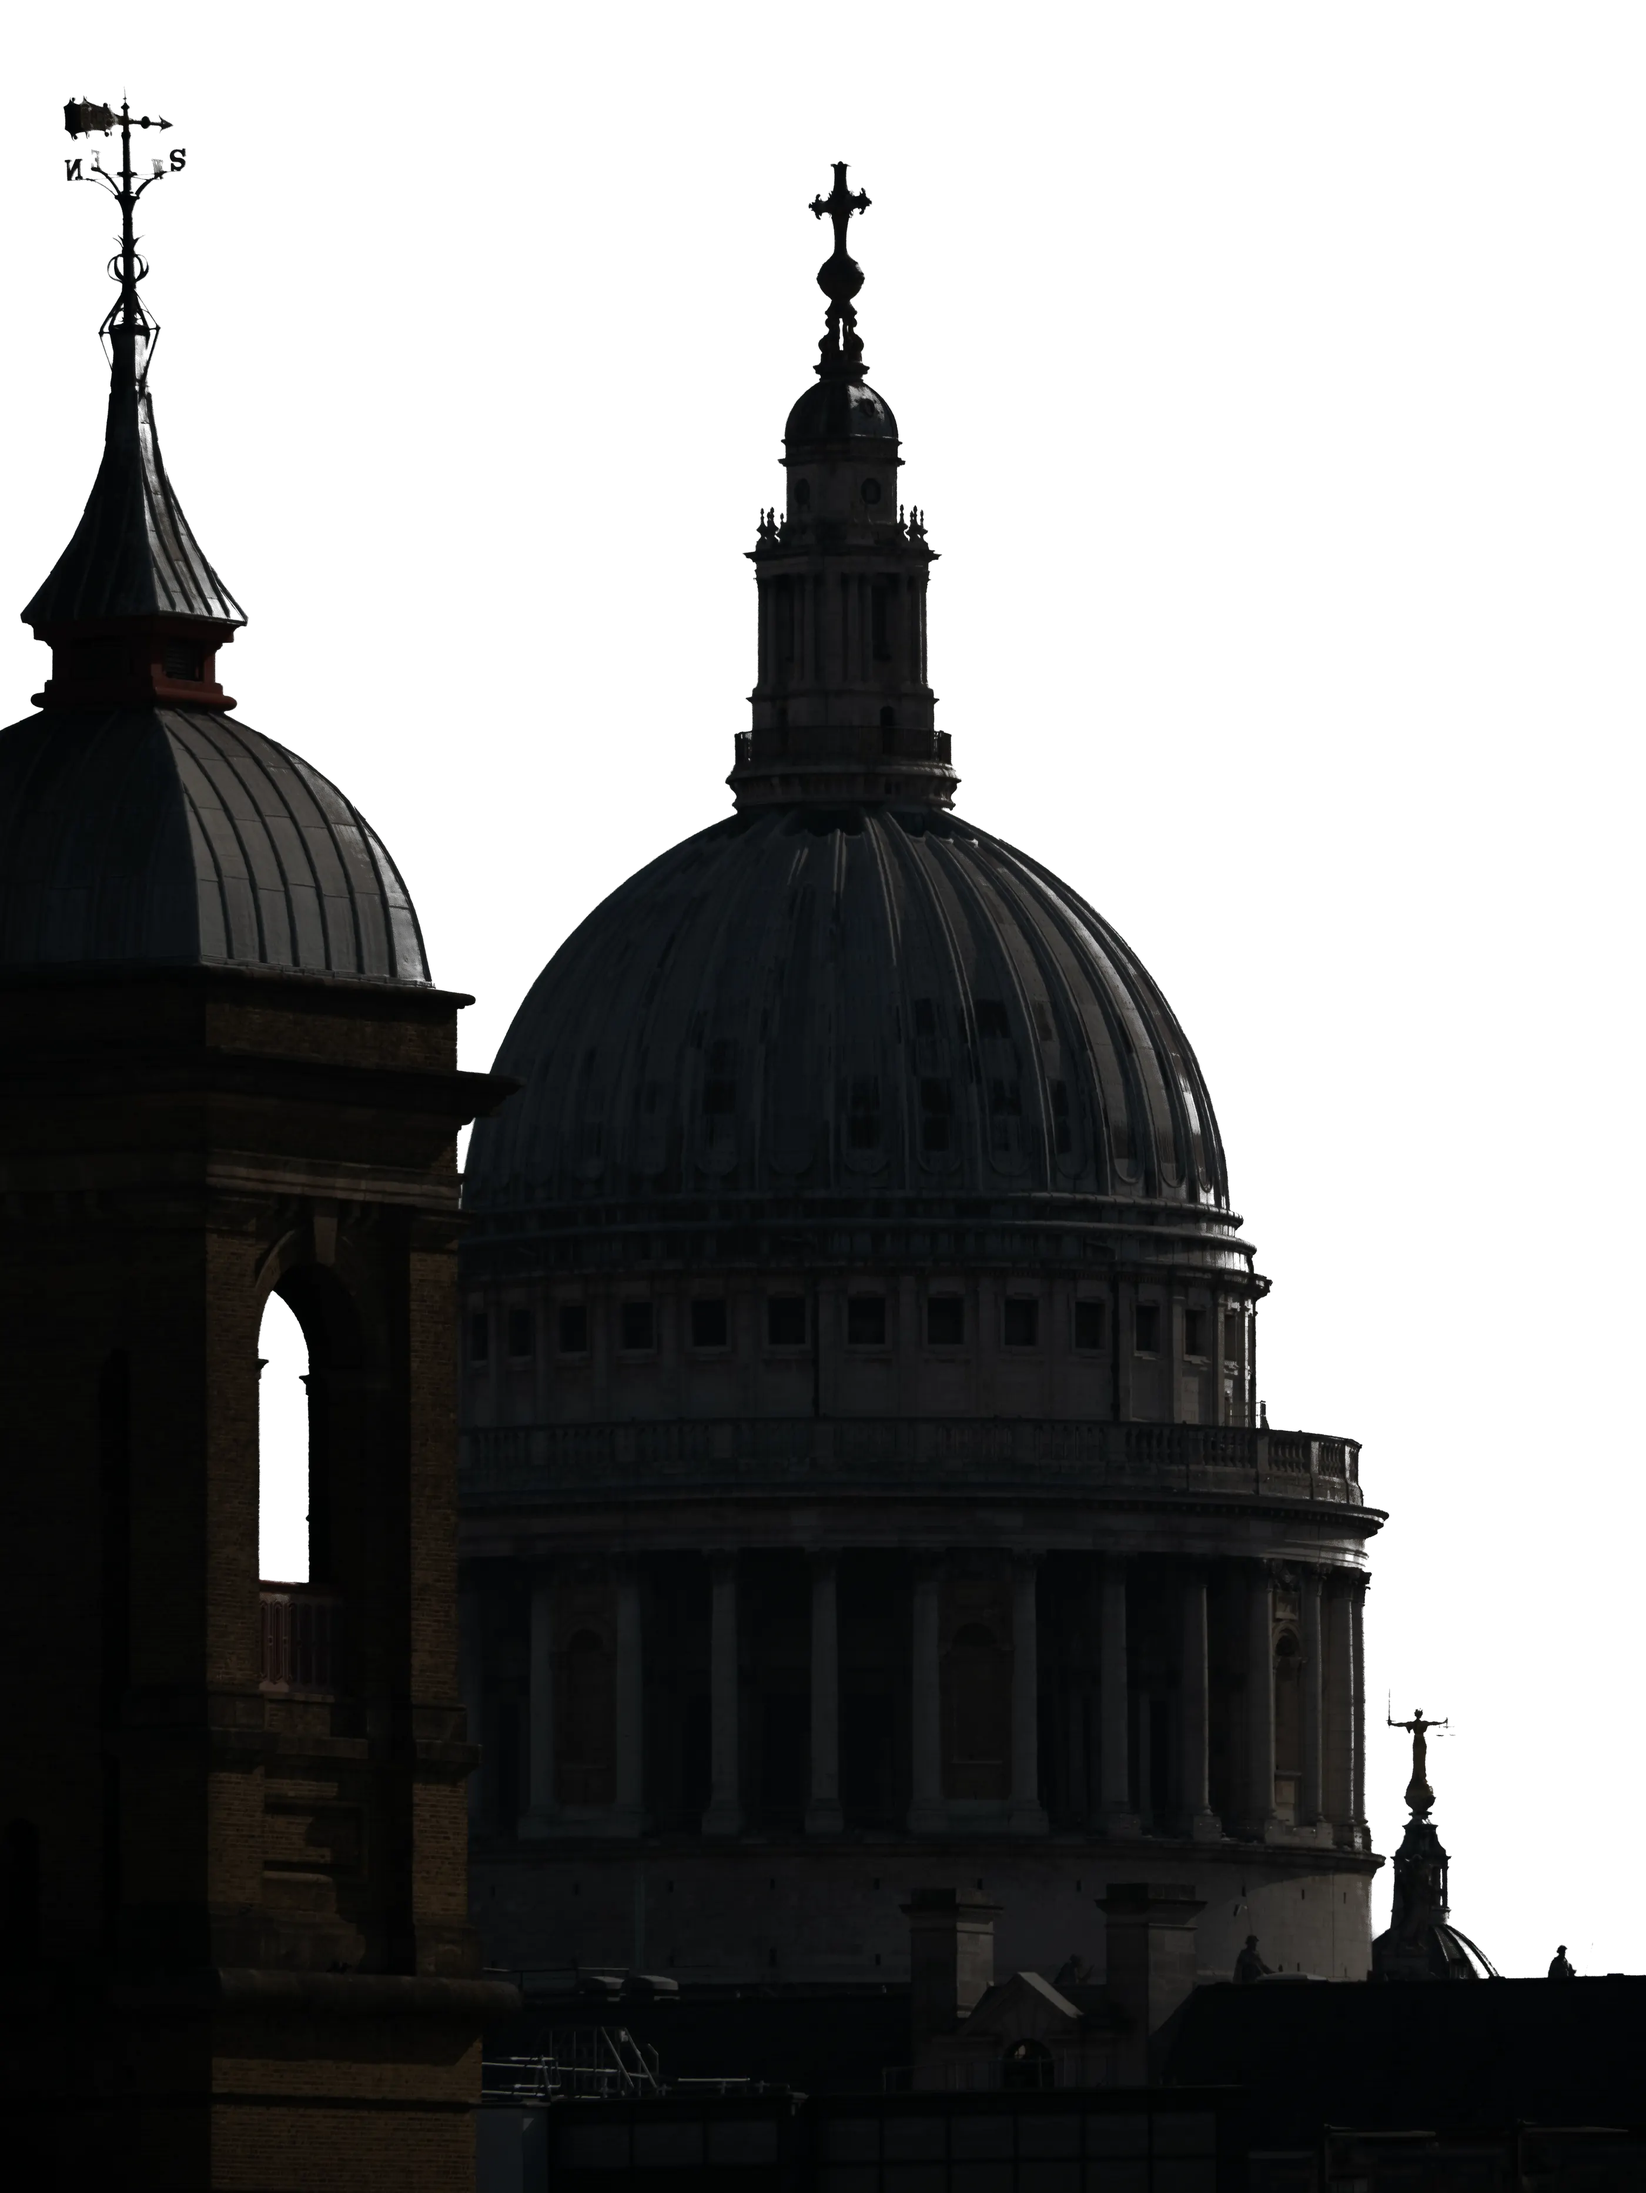
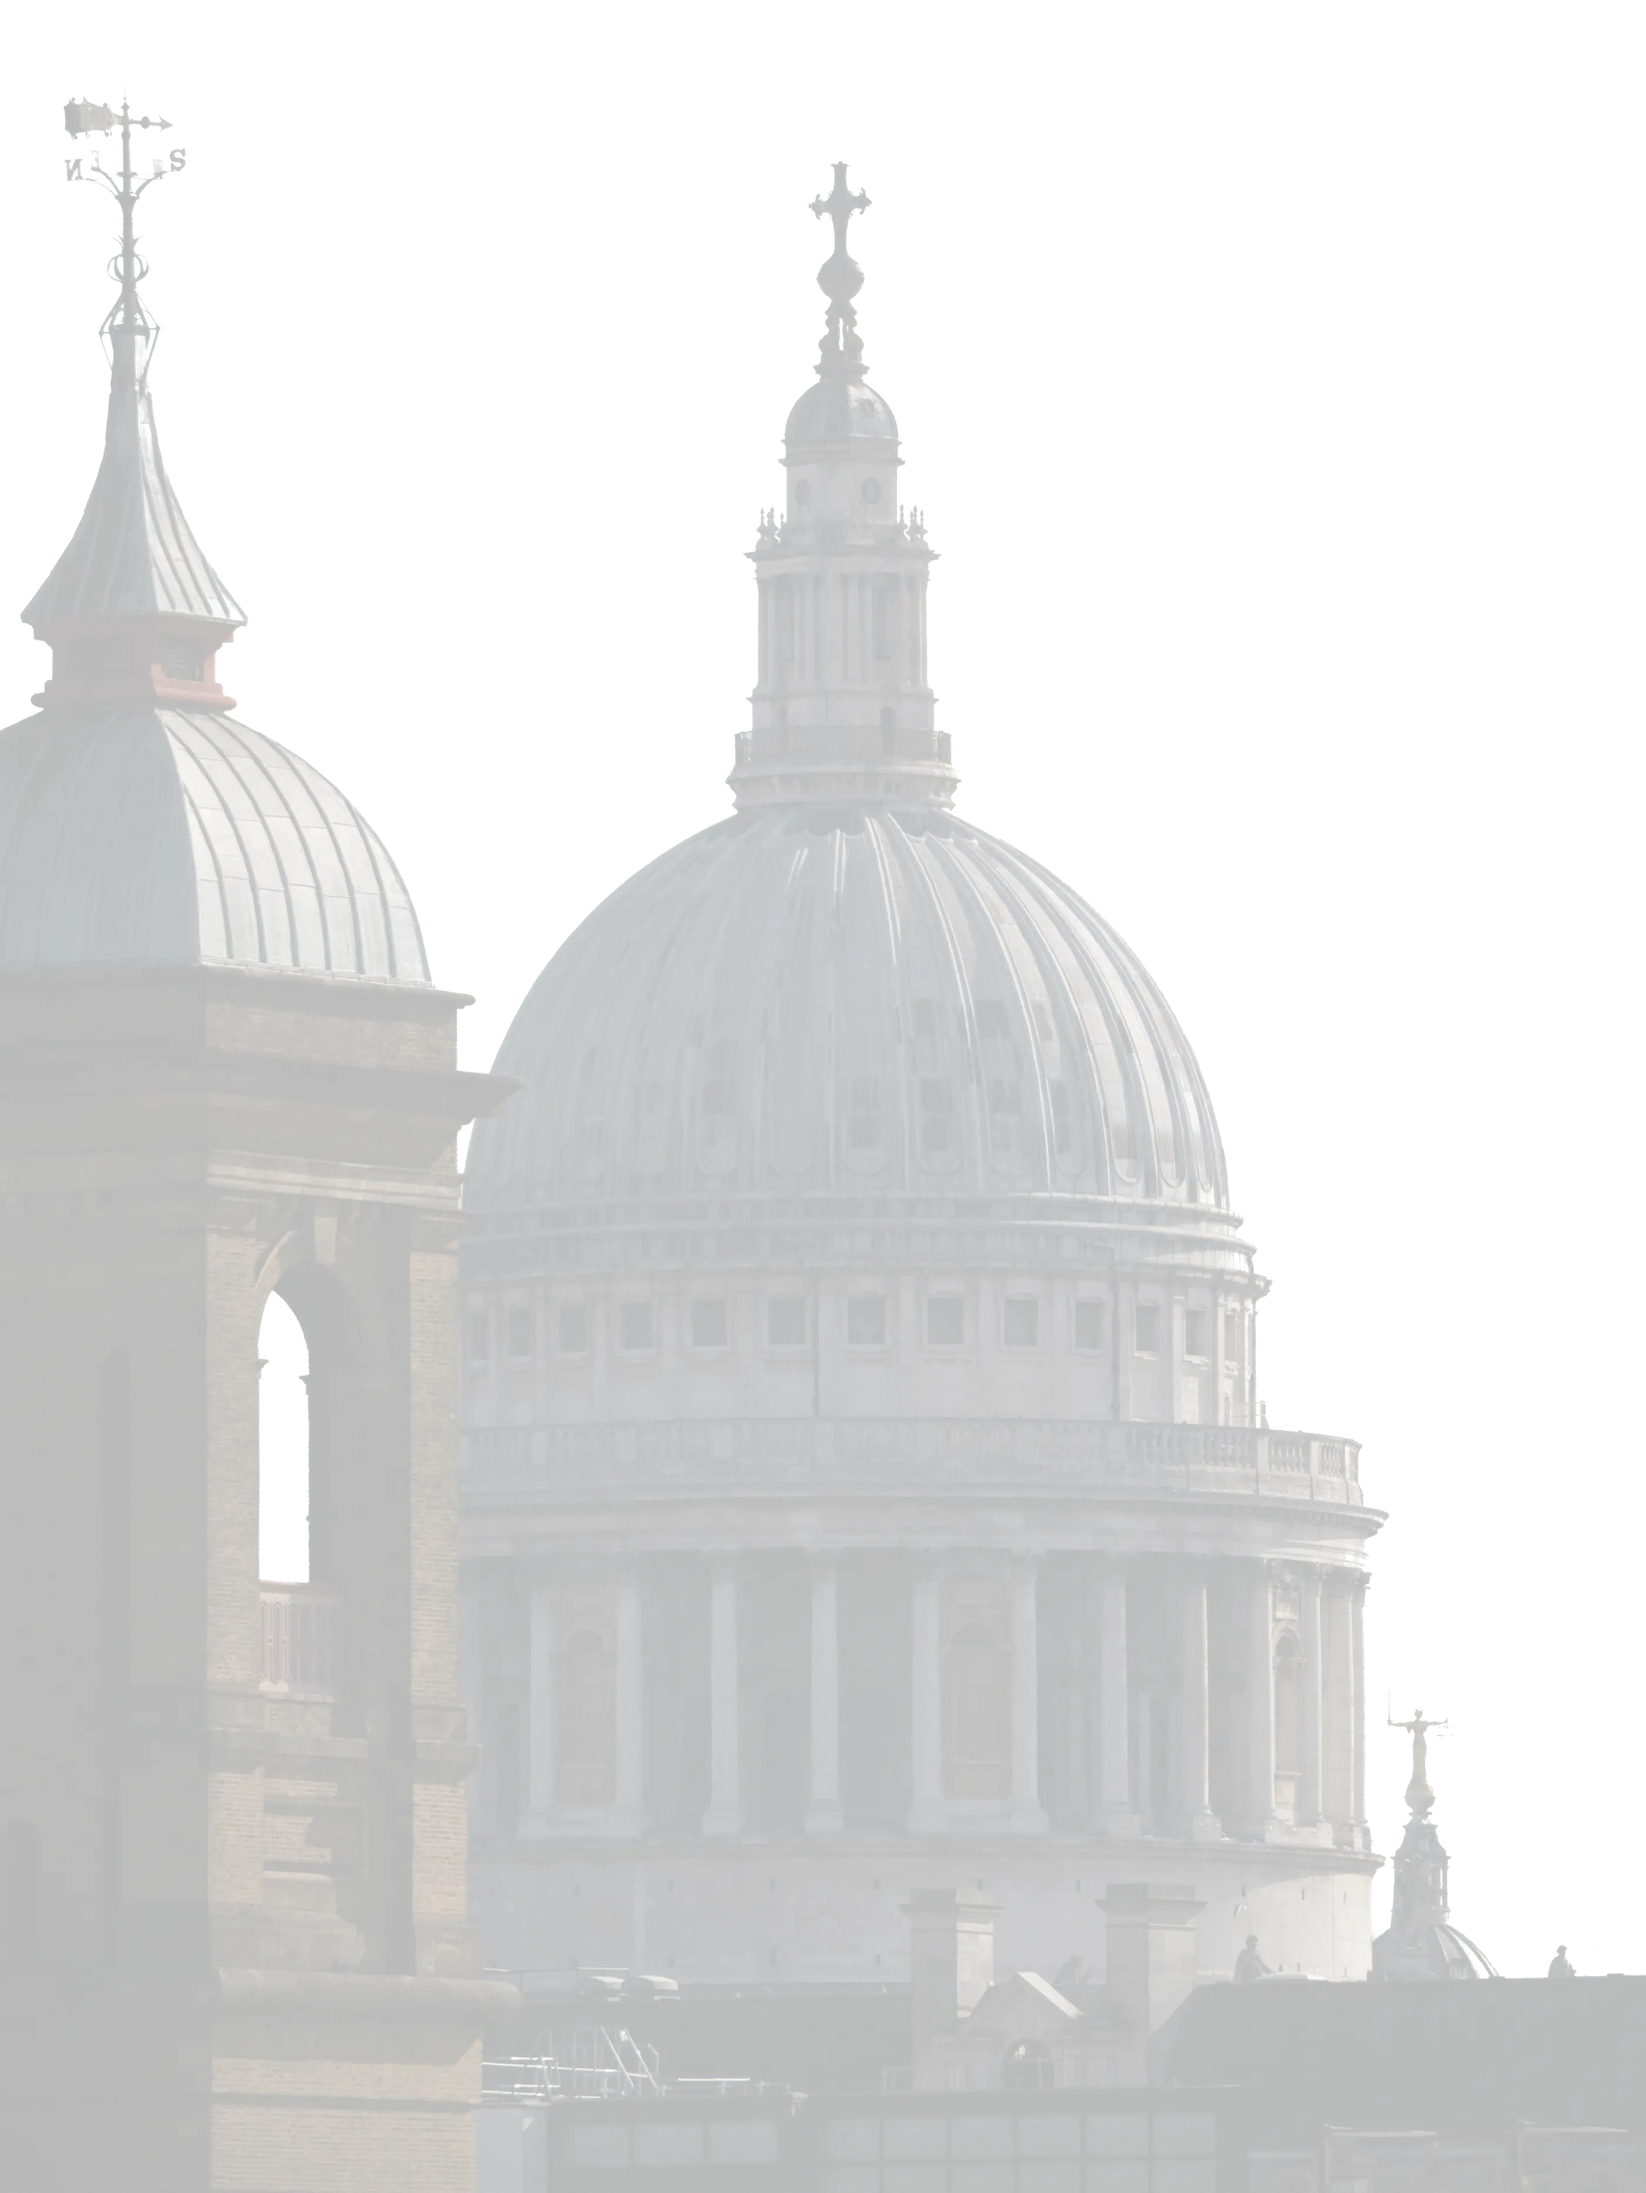
Lift the light endpoints to a watermark, and re-bake (#40)
Moves SHADOW and HIGHLIGHT on all three light grades, from the tuner:
plate and car SHADOW 0x00 -> 0xb8, eye 0x05 -> 0xc7, and all three
HIGHLIGHT -> 0xff. The darks are untouched, so only the light ladders
change bytes; the dark ones re-bake byte-identically.

On white this puts the pictures at a mean dL* of 2.43, 1.79 and 2.03 off
the paper, down from 10.01, 10.02 and 10.60, and pins HIGHLIGHT on the
page exactly — the dark paper's own pathology, chosen on purpose this
time. WHAT THE LIGHT PAPER NOW COSTS in the docstring records the
arithmetic, and the two older sections that were written against the
previous light endpoints now say which numbers they describe rather than
claiming the current ones.

HIGHLIGHT is shared across the three and SHADOW is not, mirroring
DARK_SHADOW: the end that lands on the page is a property of the paper,
the end that carries the picture is a property of the frame.

IMG_VERSION -> cd5a41c7.

diff --git a/portfolio/index.html b/portfolio/index.html
@@ -78,7 +78,7 @@
          URL — see rungUrl below for what it is for. design/plate/build-plate.py
          prints the current value at the end of every run; paste it here whenever
          it differs from this one, in the same commit as the re-baked files. */
-      var IMG_VERSION = "a236b498";
+      var IMG_VERSION = "cd5a41c7";
 
       /* One entry per picture, and `fill` is the only thing that separates them:
          the width it is drawn at as a share of the first screen. All three are

diff --git a/design/plate/build-plate.py b/design/plate/build-plate.py
@@ -235,8 +235,17 @@ So an endpoint pair is the knob for WHERE the picture sits and a poor one for
 whether it can be seen at all. The measurements, in CIE L* because eight bits are
 not a perceptual unit:
 
-    light, 0.12 on #fff    picture spans dL* 3.88, sits dL* 10.7..6.8 off the paper
+    light, 0.12 on #fff    picture spans dL* 2.95, sits dL* 3.0..0.0 off the paper
     dark,  0.17 on #000    picture spans dL* 4.55, sits dL* 0..4.6 off the paper
+
+The light row is the CURRENT light endpoints and the dark row is the ones the next
+section replaces, which is why they are not a matched pair — each is the state its
+own section argues about. Before the light endpoints moved, that first row read
+
+    light, 0.12 on #fff    picture spans dL* 3.88, sits dL* 10.7..6.8 off the paper
+
+and the paragraph above, along with the whole of the section after next, was
+written against it. See WHAT THE LIGHT PAPER NOW COSTS.
 
 THE ARITHMETIC OF THE DARK PAPER
 --------------------------------
@@ -264,10 +273,43 @@ this is still an order of magnitude quieter than the words and the reason to sto
 here is not the type — there is room — it is that a floor much above this stops
 reading as ink on black paper and starts reading as a grey card laid on it.
 
-Note what this does NOT change: the light grades. On white the picture's SHADOW
-end is its most visible part (dL* 10.7 off the paper) and it is HIGHLIGHT that is
-being lost into the page. The two papers fail at opposite ends, which is the whole
-argument for a Grade per theme, arrived at from the arithmetic rather than by eye.
+This changed no light grade at the time, and the reason is the sentence the next
+section is named after: the two papers fail at OPPOSITE ends. On black it is SHADOW
+that lands on the page; on white it is HIGHLIGHT. That asymmetry is the whole
+argument for a Grade per theme, and it was arrived at from the arithmetic rather
+than by eye.
+
+WHAT THE LIGHT PAPER NOW COSTS
+------------------------------
+The light endpoints have since moved, and they moved the other way: SHADOW up to
+0xb8 (0xc7 on the eye) and HIGHLIGHT to 0xff. On white that is the dark paper's
+pathology chosen deliberately — 0xff composites onto a #fff page at exactly the
+page's own value, so the light picture's HIGHLIGHT end is now not dim, it is gone,
+and what is left runs from code 246 to code 255:
+
+    plate  SHADOW 0x00 -> 0xb8   composite 224.4 -> 246.5   dL* 10.68 -> 2.95
+           HIGHLIGHT 0x5c -> 0xff   composite 235.4 -> 255.0   dL*  6.80 -> 0.00
+
+which narrows what the picture spans from dL* 3.88 to 2.95 and brings its whole
+band to within 3 dL* of the paper. Composited and averaged over each picture's own
+subject — the mean, not the endpoints, and taken over alpha > 0.99 so the feathered
+roofline is not counted — the three land at
+
+    plate dL* 2.43    car dL* 1.79    eye dL* 2.03      (were 10.01, 10.02, 10.60)
+
+so all three are about a quarter as far off the page as they were. That is a
+watermark rather than a picture, and it is a judgement about how loud this page
+wants to be rather than anything the arithmetic asked for: everything above says
+the light side had dL* 10.7 of room and was using it.
+
+Two things follow that are worth having written down before the next person moves
+these. The band is now EIGHT to nine 8-bit codes wide on white, so the quantiser
+argument in WHAT THE ENDPOINTS CANNOT FIX now bites on the light theme too and did
+not before — the levers that widen a band, --*-opacity and --*-fill, are the only
+ones left with anything to give here. And the three pictures are no more equal to
+each other than they were: they spread 0.64 dL* either way, which was 6% of the
+old level and is 31% of this one. Equalising them is still --*-opacity's job, for
+the reason the next section gives, and it is now a larger job than it was.
 
 WHICH KNOB EACH PAPER ANSWERS TO
 ---------------------------------
@@ -283,12 +325,20 @@ the lift this whole section is about. The ceiling is free to move, so it moves.
 
 On WHITE, the knob is --*-opacity in styles.css, and the endpoints cannot be it.
 At 0.12 the furthest any ink can get from white paper is dL* 10.68, and the three
-pictures already sit at 9.89, 9.08 and 8.80 — inside the last dL* of the range.
-Solving for a HIGHLIGHT that equalises them there asks for 0x17 and 0x14, which is
-not a grade, it is crushing two of the pictures to a silhouette to buy a difference
-the paper has no room for. Raising a picture's opacity instead moves its whole band
-away from the paper and costs nothing, because on white nothing is being clipped
-into the page at the bottom.
+pictures sat at 9.89, 9.08 and 8.80 — inside the last dL* of the range. Solving for
+a HIGHLIGHT that equalises them there asks for 0x17 and 0x14, which is not a grade,
+it is crushing two of the pictures to a silhouette to buy a difference the paper has
+no room for. Raising a picture's opacity instead moves its whole band away from the
+paper and costs nothing, because on white nothing is being clipped into the page at
+the bottom.
+
+Those three figures are the endpoints this page had before WHAT THE LIGHT PAPER NOW
+COSTS, and they are left standing because the argument is about the RATIO and the
+ratio is what survived the move: at dL* 2.43, 1.79 and 2.03 the pictures are no
+closer together, and every reason below for reaching for opacity instead of a
+ceiling holds at the new level exactly as it did at the old one. What has changed is
+only that there is now less of the range in use, not that some other knob has become
+the right one.
 
 So: a picture's share of the light is set on black here, and on white in styles.css,
 and each is the only place its own paper leaves room for.
@@ -380,14 +430,28 @@ class Grade(NamedTuple):
 # the split and opens on the same numbers for the same reason from the other end:
 # a third picture off this pipeline is a third print of one paper stock until
 # somebody looks at it and says otherwise.
+#
+# The three lights then moved together, and a long way: SHADOW from the bottom of
+# the range to near the top of it, HIGHLIGHT onto the paper itself. That is a
+# judgement about how loud these pictures are on white — a watermark rather than a
+# grey picture — and not a correction of anything. It is also the one set of
+# endpoints in this file chosen AGAINST the arithmetic the docstring gives for
+# them: see WHAT THE LIGHT PAPER NOW COSTS.
+#
+# HIGHLIGHT is shared here and SHADOW is not, which is THE ARITHMETIC OF THE DARK
+# PAPER's rule with the papers swapped rather than a second rule. The end that
+# lands on the page is a property of the PAPER — 0xff composites to 255 on #fff for
+# the eye exactly as it does for the plate — so it is one value; the end that has
+# to carry the picture is a property of the FRAME, so it is three.
+LIGHT_HIGHLIGHT = (0xff, 0xff, 0xff)   # the paper itself: composites to 255 on #fff
 PLATE_LIGHT = Grade(
     EXPOSURE_PCT=99.0,
     EXPOSURE_TARGET=0.34,
     SAT_KEEP=1.00,
     CONTRAST=0.36,
     HIGHLIGHT_PUSH=1.34,
-    SHADOW=(0x00, 0x00, 0x00),      # pure black
-    HIGHLIGHT=(0x5c, 0x5c, 0x5c),   # mid grey
+    SHADOW=(0xb8, 0xb8, 0xb8),      # composites to code 246.5 on white at 0.12
+    HIGHLIGHT=LIGHT_HIGHLIGHT,
     GRAIN_SIGMA=0.0075,
 )
 
@@ -446,8 +510,8 @@ CAR_LIGHT = Grade(
     SAT_KEEP=1.00,
     CONTRAST=0.36,
     HIGHLIGHT_PUSH=1.34,
-    SHADOW=(0x00, 0x00, 0x00),      # pure black
-    HIGHLIGHT=(0x5c, 0x5c, 0x5c),   # mid grey
+    SHADOW=(0xb8, 0xb8, 0xb8),      # composites to code 245.4 on white at 0.135
+    HIGHLIGHT=LIGHT_HIGHLIGHT,
     GRAIN_SIGMA=0.0075,
 )
 
@@ -468,8 +532,8 @@ EYE_LIGHT = Grade(
     SAT_KEEP=1.00,
     CONTRAST=0.36,
     HIGHLIGHT_PUSH=1.34,
-    SHADOW=(0x05, 0x05, 0x05),      # off black
-    HIGHLIGHT=(0x61, 0x61, 0x61),   # mid grey
+    SHADOW=(0xc7, 0xc7, 0xc7),      # composites to code 247.7 on white at 0.131
+    HIGHLIGHT=LIGHT_HIGHLIGHT,
     GRAIN_SIGMA=0.0075,
 )
 
